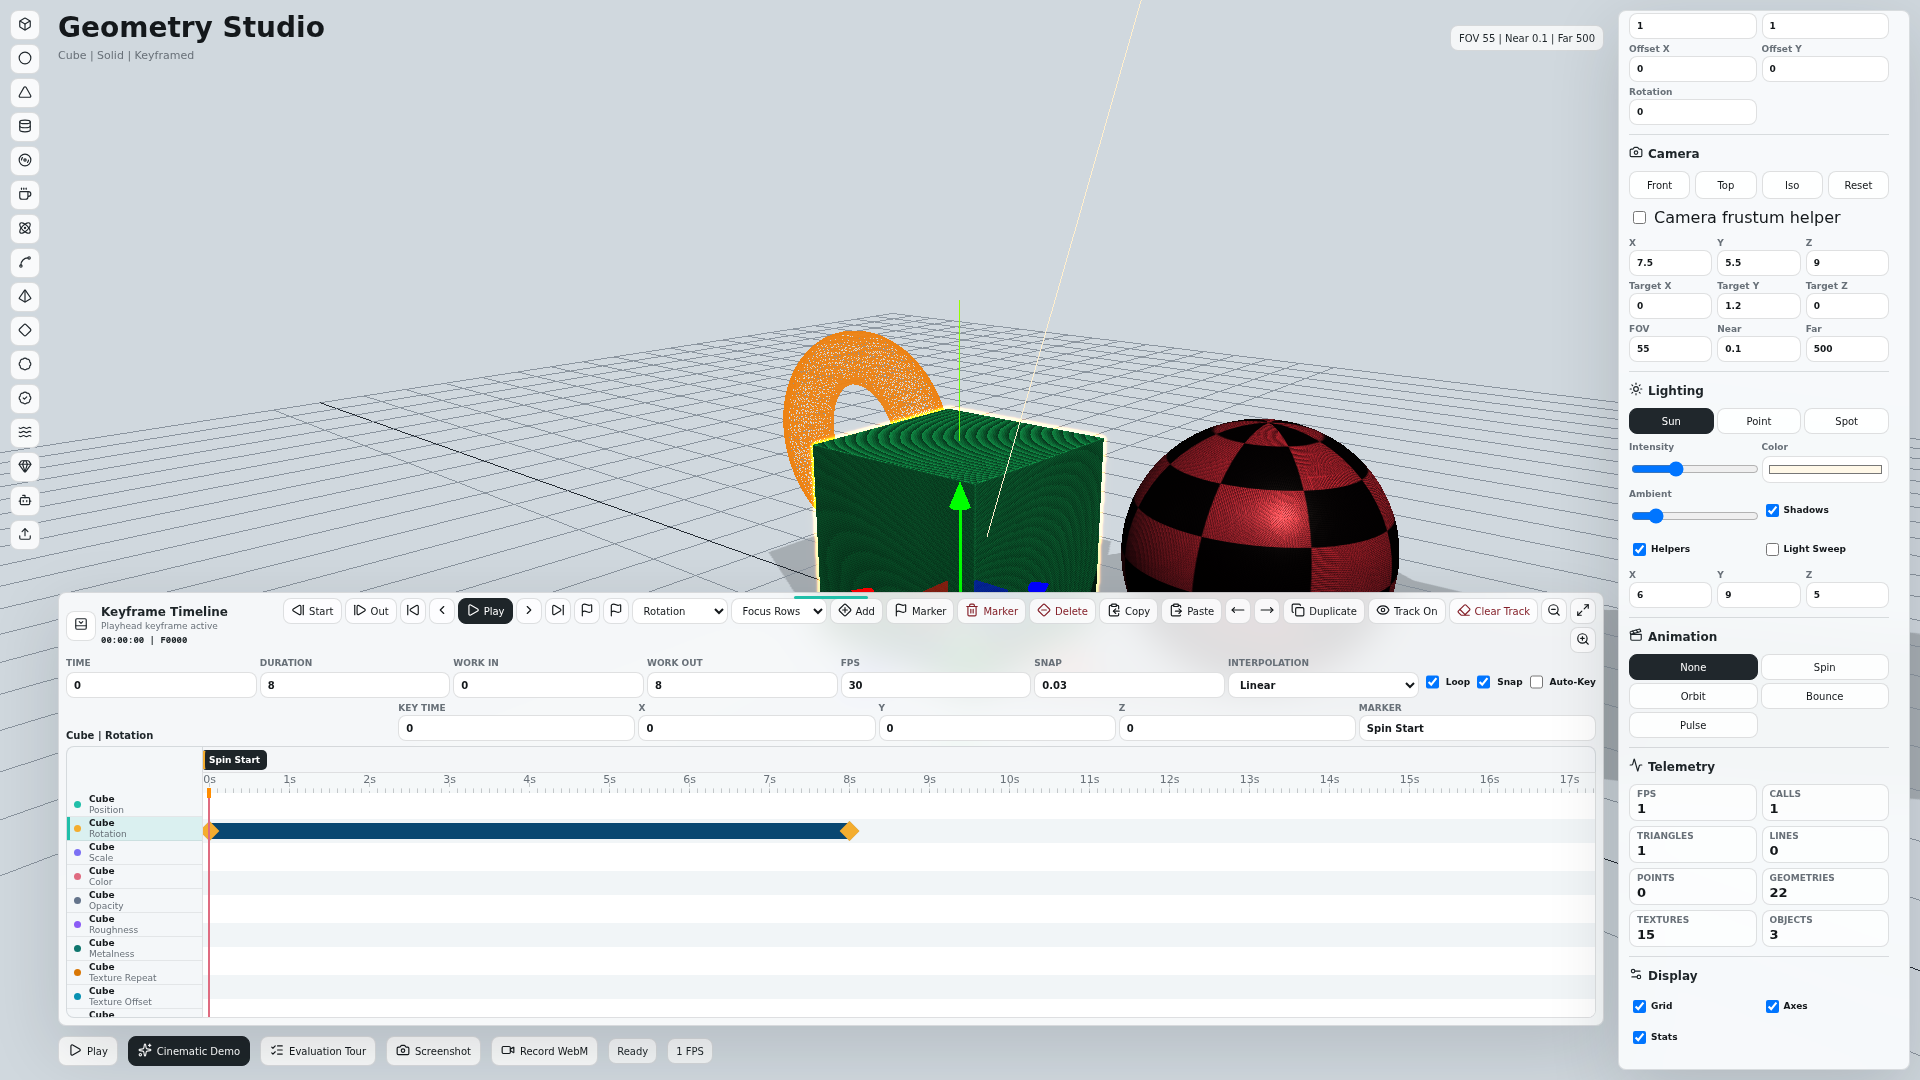
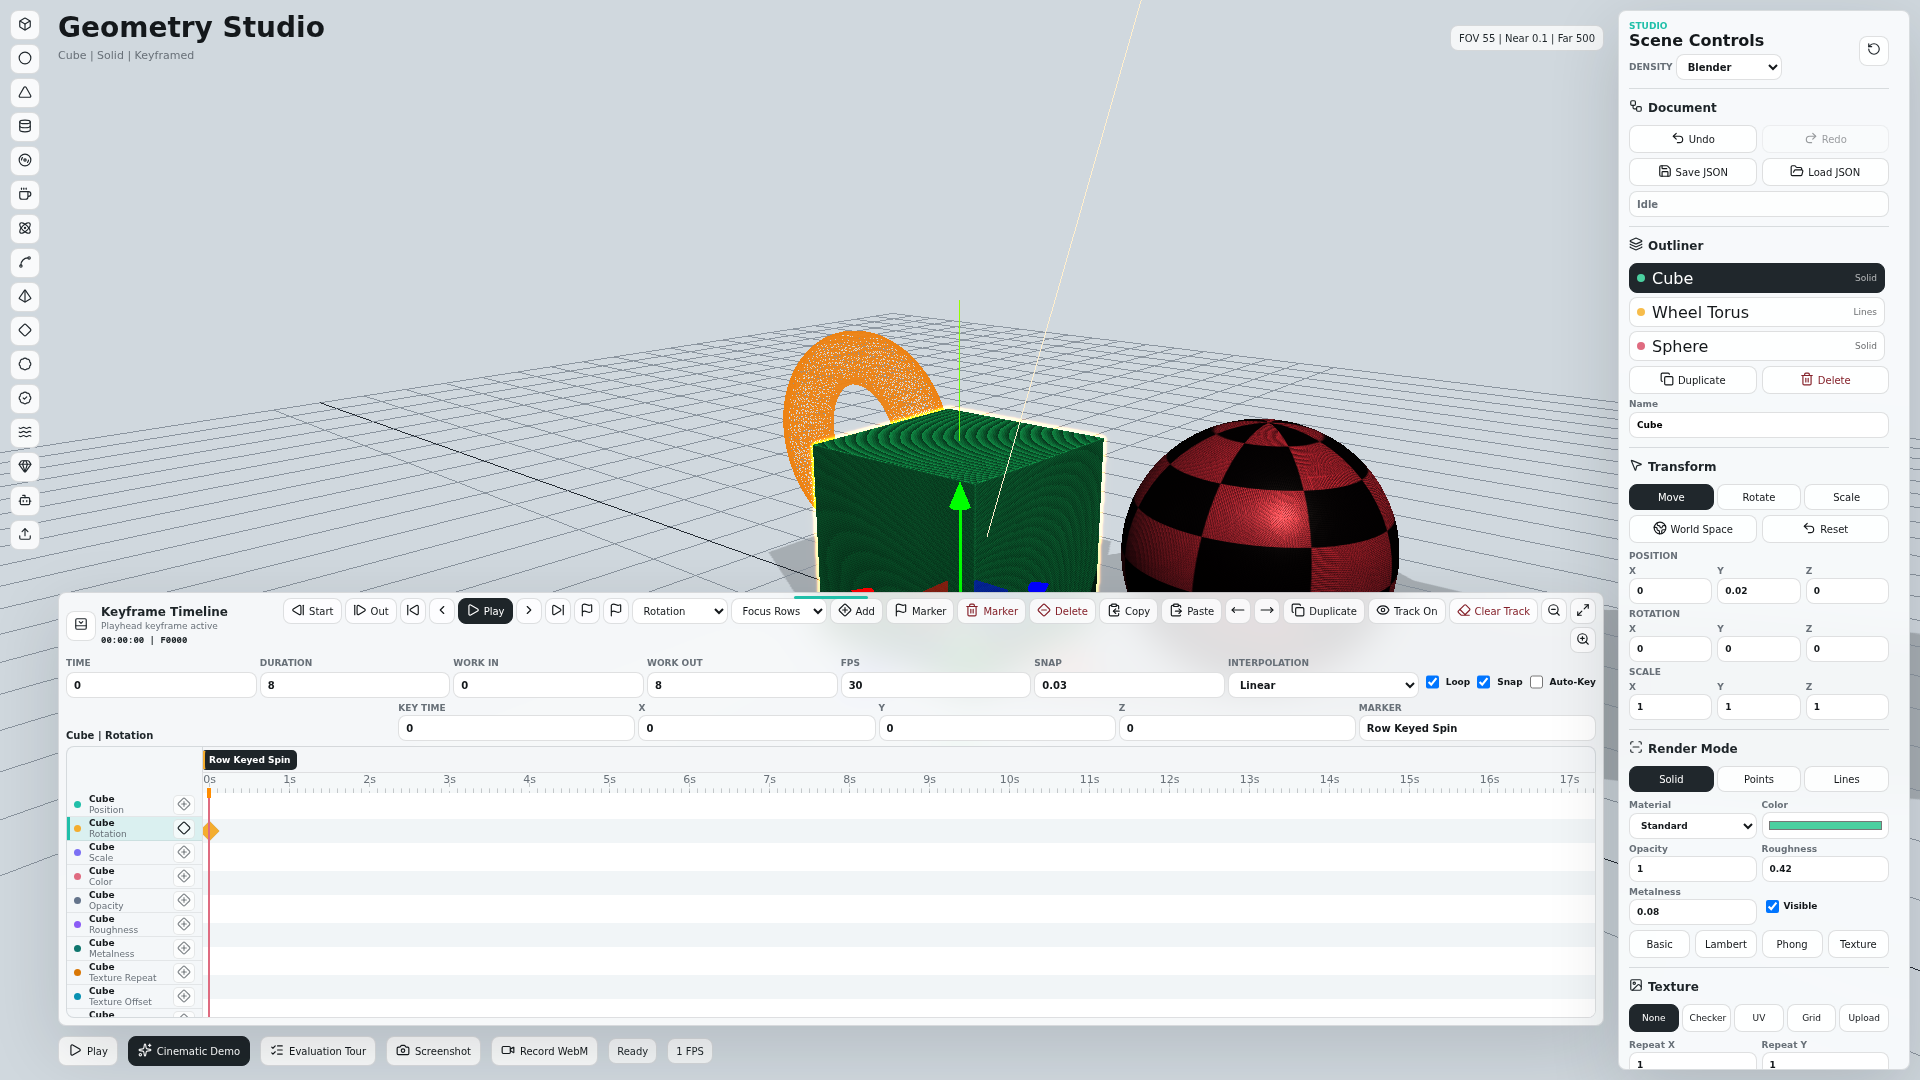
Add timeline row key buttons

diff --git a/Source/src/ui/timelinePanel.ts b/Source/src/ui/timelinePanel.ts
@@ -272,6 +272,7 @@ export class KeyframeTimelinePanel {
     const rowHeight = this.timelineRowHeight();
     const headerHeight = this.timelineHeaderHeight();
     this.labels.innerHTML = this.renderLabels(timelineDocument, visibleEntries, selectedId);
+    hydrateIcons(this.labels);
     this.timeline.setOptions({
       max: timelineDocument.duration,
       snapEnabled: timelineDocument.snapEnabled,
@@ -374,11 +375,24 @@ export class KeyframeTimelinePanel {
       this.callbacks.onToggleTrack(this.selectedTrackKind());
     });
     this.labels.addEventListener("click", (event) => {
-      const button = (event.target as HTMLElement).closest<HTMLButtonElement>(".timeline-track-label");
-      if (!button) return;
-      const kind = button.dataset.trackKind as TimelineTrackKind | undefined;
-      const targetId = button.dataset.objectId;
+      const keyButton = (event.target as HTMLElement).closest<HTMLButtonElement>(".timeline-row-key");
+      const row = (event.target as HTMLElement).closest<HTMLElement>(".timeline-track-label");
+      if (!row) return;
+      const kind = row.dataset.trackKind as TimelineTrackKind | undefined;
+      const targetId = row.dataset.objectId;
       if (!kind || !targetId) return;
+      this.trackSelect.value = kind;
+      this.callbacks.onTrackLabelSelected(targetId, kind);
+      if (keyButton) this.callbacks.onAddKeyframe(kind);
+    });
+    this.labels.addEventListener("keydown", (event) => {
+      if (event.key !== "Enter" && event.key !== " ") return;
+      const row = (event.target as HTMLElement).closest<HTMLElement>(".timeline-track-label");
+      if (!row || event.target instanceof HTMLButtonElement) return;
+      const kind = row.dataset.trackKind as TimelineTrackKind | undefined;
+      const targetId = row.dataset.objectId;
+      if (!kind || !targetId) return;
+      event.preventDefault();
       this.trackSelect.value = kind;
       this.callbacks.onTrackLabelSelected(targetId, kind);
     });
@@ -604,43 +618,67 @@ export class KeyframeTimelinePanel {
         const visibleKinds = this.visibleTrackKinds(OBJECT_TRACKS, objectTimeline?.tracks ?? [], entry.id, selectedId);
         return visibleKinds.map((kind) => {
           const track = objectTimeline?.tracks.find((candidate) => candidate.kind === kind);
-        return `
-        <button class="${this.labelClass(entry.id === selectedId && activeKind === kind, track?.enabled ?? true, Boolean(track?.keyframes.length))}" type="button" data-object-id="${entry.id}" data-track-kind="${kind}">
-          <span class="track-swatch" style="background:${TRACK_COLORS[kind]}"></span>
-          <span>
-            <strong>${entry.name}</strong>
-            <small>${TRACK_LABELS[kind]}</small>
-          </span>
-        </button>
-      `;
+          return this.renderTrackLabel({
+            targetId: entry.id,
+            targetName: entry.name,
+            kind,
+            active: entry.id === selectedId && activeKind === kind,
+            enabled: track?.enabled ?? true,
+            hasKeyframes: Boolean(track?.keyframes.length)
+          });
         });
       })
       .join("");
     const cameraLabels = this.visibleTrackKinds(CAMERA_TRACKS, timelineDocument.camera.tracks, CAMERA_TARGET_ID, selectedId).map((kind) => {
       const track = timelineDocument.camera.tracks.find((candidate) => candidate.kind === kind);
-      return `
-      <button class="${this.labelClass(isCameraTrack(activeKind) && activeKind === kind, track?.enabled ?? true, Boolean(track?.keyframes.length), "camera-track-label")}" type="button" data-object-id="${CAMERA_TARGET_ID}" data-track-kind="${kind}">
-        <span class="track-swatch" style="background:${TRACK_COLORS[kind]}"></span>
-        <span>
-          <strong>Camera</strong>
-          <small>${TRACK_LABELS[kind]}</small>
-        </span>
-      </button>
-    `;
+      return this.renderTrackLabel({
+        targetId: CAMERA_TARGET_ID,
+        targetName: "Camera",
+        kind,
+        active: isCameraTrack(activeKind) && activeKind === kind,
+        enabled: track?.enabled ?? true,
+        hasKeyframes: Boolean(track?.keyframes.length),
+        extraClass: "camera-track-label"
+      });
     }).join("");
     const lightLabels = this.visibleTrackKinds(LIGHT_TRACKS, timelineDocument.lights.tracks, LIGHT_TARGET_ID, selectedId).map((kind) => {
       const track = timelineDocument.lights.tracks.find((candidate) => candidate.kind === kind);
-      return `
-      <button class="${this.labelClass(isLightTrack(activeKind) && activeKind === kind, track?.enabled ?? true, Boolean(track?.keyframes.length), "light-track-label")}" type="button" data-object-id="${LIGHT_TARGET_ID}" data-track-kind="${kind}">
-        <span class="track-swatch" style="background:${TRACK_COLORS[kind]}"></span>
-        <span>
-          <strong>Lights</strong>
-          <small>${TRACK_LABELS[kind]}</small>
-        </span>
-      </button>
-    `;
+      return this.renderTrackLabel({
+        targetId: LIGHT_TARGET_ID,
+        targetName: "Lights",
+        kind,
+        active: isLightTrack(activeKind) && activeKind === kind,
+        enabled: track?.enabled ?? true,
+        hasKeyframes: Boolean(track?.keyframes.length),
+        extraClass: "light-track-label"
+      });
     }).join("");
     return `${objectLabels || `<div class="timeline-empty">Select an object to keyframe</div>`}${cameraLabels}${lightLabels}`;
+  }
+
+  private renderTrackLabel(options: {
+    targetId: string;
+    targetName: string;
+    kind: TimelineTrackKind;
+    active: boolean;
+    enabled: boolean;
+    hasKeyframes: boolean;
+    extraClass?: string;
+  }): string {
+    const label = TRACK_LABELS[options.kind];
+    const keyText = options.hasKeyframes ? "Update keyframe" : "Add keyframe";
+    return `
+      <div class="${this.labelClass(options.active, options.enabled, options.hasKeyframes, options.extraClass ?? "")}" role="button" tabindex="0" data-object-id="${options.targetId}" data-track-kind="${options.kind}" aria-label="${options.targetName} ${label}">
+        <span class="track-swatch" style="background:${TRACK_COLORS[options.kind]}"></span>
+        <span class="track-label-text">
+          <strong>${options.targetName}</strong>
+          <small>${label}</small>
+        </span>
+        <button class="timeline-row-key" type="button" aria-label="${keyText}: ${options.targetName} ${label}" title="${keyText}">
+          <span data-icon="${options.hasKeyframes ? "Diamond" : "DiamondPlus"}"></span>
+        </button>
+      </div>
+    `;
   }
 
   private labelClass(active: boolean, enabled: boolean, hasKeyframes: boolean, extra = ""): string {

diff --git a/Source/src/styles.css b/Source/src/styles.css
@@ -608,12 +608,15 @@ svg {
   width: 100%;
   height: var(--timeline-track-row-height);
   display: grid;
-  grid-template-columns: 10px minmax(0, 1fr);
+  grid-template-columns: 10px minmax(0, 1fr) var(--icon-mini-size);
   align-items: center;
   gap: var(--grid-gap);
   border: 0;
   border-bottom: 1px solid rgba(26, 35, 42, 0.08);
   background: transparent;
+  color: inherit;
+  cursor: pointer;
+  font: inherit;
   padding: 0 var(--timeline-header-padding-x);
   text-align: left;
 }
@@ -636,27 +639,51 @@ svg {
   border: 1px solid currentColor;
 }
 
-.timeline-track-label span:last-child {
+.track-label-text {
   display: grid;
   gap: 1px;
   min-width: 0;
 }
 
-.timeline-track-label strong,
-.timeline-track-label small {
+.track-label-text strong,
+.track-label-text small {
   overflow: hidden;
   text-overflow: ellipsis;
   white-space: nowrap;
 }
 
-.timeline-track-label strong {
+.track-label-text strong {
   color: var(--ink);
   font-size: var(--ui-small-font);
 }
 
-.timeline-track-label small {
+.track-label-text small {
   color: var(--muted);
   font-size: var(--ui-tiny-font);
+}
+
+.timeline-row-key {
+  width: calc(var(--icon-mini-size) - 4px);
+  height: calc(var(--timeline-track-row-height) - 4px);
+  display: grid;
+  place-items: center;
+  justify-self: end;
+  border: 1px solid rgba(26, 35, 42, 0.1);
+  border-radius: calc(var(--control-radius) - 3px);
+  background: rgba(255, 255, 255, 0.68);
+  color: rgba(26, 35, 42, 0.54);
+  padding: 0;
+}
+
+.timeline-row-key:hover,
+.timeline-row-key:focus-visible {
+  border-color: var(--teal);
+  color: var(--teal);
+  outline: 0;
+}
+
+.timeline-track-label.has-keyframes .timeline-row-key {
+  color: var(--charcoal);
 }
 
 .track-swatch {

diff --git a/Source/tests/studio.spec.ts b/Source/tests/studio.spec.ts
@@ -1,7 +1,7 @@
 import { expect, test } from "@playwright/test";
 
 test("renders the studio and core controls", async ({ page }) => {
-  test.setTimeout(120_000);
+  test.setTimeout(180_000);
   const errors: string[] = [];
   page.on("console", (message) => {
     if (message.type() === "error") errors.push(message.text());
@@ -40,6 +40,8 @@ test("renders the studio and core controls", async ({ page }) => {
   await rotationTrackLabel.click();
   await expect(page.locator("#timeline-track-kind")).toHaveValue("rotation");
   await expect(rotationTrackLabel).toHaveClass(/active/);
+  await rotationTrackLabel.locator(".timeline-row-key").click();
+  await expect(page.locator("#timeline-key-label")).toContainText("Cube | Rotation");
   await page.locator('[data-animation="spin"]').click({ force: true });
   await expect(page.locator("#selection-summary")).toContainText("Keyframed");
   await expect(page.locator("#timeline-track-kind")).toHaveValue("rotation");
@@ -50,14 +52,16 @@ test("renders the studio and core controls", async ({ page }) => {
   await cameraTrackLabel.click();
   await expect(page.locator("#timeline-track-kind")).toHaveValue("cameraPosition");
   await expect(cameraTrackLabel).toHaveClass(/active/);
+  await cameraTrackLabel.locator(".timeline-row-key").click();
+  await expect(page.locator("#timeline-key-label")).toContainText("Camera | Camera Position");
   const dockHeight = await page.locator("#keyframe-dock").evaluate((element) => element.getBoundingClientRect().height);
   const resizeBox = await page.locator("#timeline-resize-handle").boundingBox();
   expect(resizeBox).toBeTruthy();
   await page.mouse.move(resizeBox!.x + resizeBox!.width / 2, resizeBox!.y + 4);
   await page.mouse.down();
-  await page.mouse.move(resizeBox!.x + resizeBox!.width / 2, resizeBox!.y - 72);
+  await page.mouse.move(resizeBox!.x + resizeBox!.width / 2, resizeBox!.y - 120);
   await page.mouse.up();
-  await expect.poll(() => page.locator("#keyframe-dock").evaluate((element) => element.getBoundingClientRect().height)).toBeGreaterThan(dockHeight + 50);
+  await expect.poll(() => page.locator("#keyframe-dock").evaluate((element) => element.getBoundingClientRect().height)).toBeGreaterThan(dockHeight + 20);
   await page.locator("#timeline-next-frame").click();
   await expect(page.locator("#timeline-timecode")).toContainText("F0001");
   expect(Number(await page.locator("#timeline-current-time").inputValue())).toBeGreaterThan(0);

diff --git a/Release/index.html b/Release/index.html
@@ -8,8 +8,8 @@
       content="Geometry Studio - an interactive 3D computer graphics scene editor."
     />
     <title>Geometry Studio</title>
-    <script type="module" crossorigin src="./assets/index-CYMS94hh.js"></script>
-    <link rel="stylesheet" crossorigin href="./assets/index-BoHud98y.css">
+    <script type="module" crossorigin src="./assets/index-CSypYsCP.js"></script>
+    <link rel="stylesheet" crossorigin href="./assets/index-DovKPv5M.css">
   </head>
   <body>
     <div id="app"></div>

diff --git a/Release/assets/index-DovKPv5M.css b/Release/assets/index-DovKPv5M.css
@@ -1,0 +1,1 @@
+:root{--lightningcss-light:initial;--lightningcss-dark: ;color-scheme:light;color:#14181b;font-synthesis:none;text-rendering:optimizelegibility;-webkit-font-smoothing:antialiased;--ink:#14181b;--muted:#687078;--panel:#fafcfdeb;--panel-strong:#fff;--line:#1a232a24;--teal:#20bfa9;--amber:#f4ad2f;--rose:#df6b80;--violet:#7c70f4;--charcoal:#1e2529;background:#e8ecef;font-family:Inter,ui-sans-serif,system-ui,-apple-system,BlinkMacSystemFont,Segoe UI,sans-serif}*{box-sizing:border-box;scrollbar-width:thin;scrollbar-color:#1f282e57 transparent}::-webkit-scrollbar{width:7px;height:7px}::-webkit-scrollbar-track{background:0 0}::-webkit-scrollbar-thumb{background:#1f282e47;border-radius:999px}html,body,#app{width:100%;height:100%;margin:0;overflow:hidden}button,input,select{font:inherit}button,label{-webkit-tap-highlight-color:transparent}svg{width:var(--icon-glyph-size,18px);height:var(--icon-glyph-size,18px);stroke-width:2px;flex:none}.studio-shell{--viewport-left:88px;--viewport-right:396px;--viewport-edge:22px;--viewport-bottom-edge:22px;--viewport-gap:16px;--title-size:38px;--title-meta-size:13px;--chip-height:34px;--chip-padding:12px;--timeline-action-height:38px;--timeline-action-padding:14px;--dock-bottom:72px;--dock-height:360px;--dock-collapsed-height:50px;--dock-gap:8px;--timeline-header-height:48px;--timeline-header-column:40px;--timeline-header-padding-x:10px;--timeline-header-padding-top:8px;--timeline-settings-columns:repeat(5, minmax(82px, 1fr)) repeat(3, auto);--timeline-track-label-width:178px;--timeline-track-row-height:32px;--timeline-track-top-padding:28px;--timeline-select-width:112px;--control-height:34px;--control-radius:8px;--control-padding-x:9px;--button-height:36px;--button-padding-x:9px;--mini-button-height:34px;--mini-button-padding-x:10px;--icon-command-size:40px;--icon-mini-size:34px;--icon-glyph-size:18px;--tool-left:18px;--tool-top:16px;--tool-bottom:16px;--tool-rail-width:50px;--tool-size:40px;--tool-gap:6px;--inspector-width:360px;--inspector-edge:16px;--inspector-padding-y:18px;--inspector-padding-x:16px;--panel-gap:12px;--panel-section-y:14px;--panel-title-size:20px;--section-title-size:14px;--ui-font:12px;--ui-small-font:11px;--ui-tiny-font:10px;--grid-gap:8px;--outliner-height:160px;--outliner-row-height:42px;--toast-left:88px;--toast-bottom:78px;background:#e8ecef;width:100%;height:100%;position:relative}.studio-shell[data-density=compact]{--viewport-left:72px;--viewport-right:348px;--viewport-edge:18px;--viewport-bottom-edge:18px;--viewport-gap:12px;--title-size:32px;--title-meta-size:12px;--chip-height:30px;--chip-padding:10px;--timeline-action-height:34px;--timeline-action-padding:11px;--dock-bottom:62px;--dock-height:330px;--dock-collapsed-height:44px;--dock-gap:7px;--timeline-header-height:42px;--timeline-header-column:34px;--timeline-header-padding-x:8px;--timeline-header-padding-top:6px;--timeline-settings-columns:repeat(6, minmax(74px, 1fr)) repeat(3, auto);--timeline-track-label-width:154px;--timeline-track-row-height:28px;--timeline-track-top-padding:24px;--timeline-select-width:104px;--control-height:30px;--control-padding-x:8px;--button-height:32px;--button-padding-x:8px;--mini-button-height:30px;--mini-button-padding-x:8px;--icon-command-size:34px;--icon-mini-size:30px;--icon-glyph-size:16px;--tool-left:14px;--tool-top:12px;--tool-bottom:12px;--tool-rail-width:42px;--tool-size:34px;--tool-gap:5px;--inspector-width:320px;--inspector-edge:14px;--inspector-padding-y:13px;--inspector-padding-x:12px;--panel-gap:10px;--panel-section-y:11px;--panel-title-size:18px;--section-title-size:13px;--ui-font:11px;--ui-small-font:10px;--ui-tiny-font:9px;--grid-gap:6px;--outliner-height:138px;--outliner-row-height:36px;--toast-left:72px;--toast-bottom:68px}.studio-shell[data-density=blender]{--viewport-left:58px;--viewport-right:316px;--viewport-edge:14px;--viewport-bottom-edge:14px;--viewport-gap:10px;--title-size:28px;--title-meta-size:11px;--chip-height:26px;--chip-padding:8px;--timeline-action-height:30px;--timeline-action-padding:9px;--dock-bottom:54px;--dock-height:300px;--dock-collapsed-height:38px;--dock-gap:5px;--timeline-header-height:36px;--timeline-header-column:30px;--timeline-header-padding-x:7px;--timeline-header-padding-top:5px;--timeline-settings-columns:repeat(7, minmax(66px, 1fr)) repeat(3, auto);--timeline-track-label-width:136px;--timeline-track-row-height:24px;--timeline-track-top-padding:20px;--timeline-select-width:96px;--control-height:26px;--control-padding-x:7px;--button-height:28px;--button-padding-x:7px;--mini-button-height:26px;--mini-button-padding-x:7px;--icon-command-size:30px;--icon-mini-size:26px;--icon-glyph-size:14px;--tool-left:10px;--tool-top:10px;--tool-bottom:10px;--tool-rail-width:36px;--tool-size:30px;--tool-gap:4px;--inspector-width:292px;--inspector-edge:10px;--inspector-padding-y:10px;--inspector-padding-x:10px;--panel-gap:8px;--panel-section-y:9px;--panel-title-size:16px;--section-title-size:12px;--ui-font:10px;--ui-small-font:9px;--ui-tiny-font:9px;--grid-gap:5px;--outliner-height:118px;--outliner-row-height:30px;--toast-left:58px;--toast-bottom:60px}.viewport{position:absolute;inset:0;overflow:hidden}#scene-canvas{width:100%;height:100%;display:block}.viewport-top,.viewport-bottom{left:var(--viewport-left);right:var(--viewport-right);z-index:4;justify-content:space-between;align-items:center;gap:var(--viewport-gap);pointer-events:none;display:flex;position:absolute}.viewport-top{top:var(--viewport-edge)}.viewport-bottom{bottom:var(--viewport-bottom-edge);justify-content:flex-start}.viewport-top h1{font-size:clamp(22px, 2.4vw, var(--title-size));letter-spacing:0;margin:0;line-height:1}.viewport-top p{color:var(--muted);font-size:var(--title-meta-size);margin:7px 0 0}.view-chip,.fps,.status-line{min-height:var(--chip-height);border:1px solid var(--line);color:var(--charcoal);border-radius:var(--control-radius);padding:0 var(--chip-padding);font-size:var(--ui-font);-webkit-backdrop-filter:blur(18px);backdrop-filter:blur(18px);background:#ffffffc2;align-items:center;display:inline-flex}.timeline-btn,.wide-button,.mini-button,.icon-command,.tool-button,.segment,.outliner-item,.texture-swatch,.section-button{border:1px solid var(--line);color:var(--ink);border-radius:var(--control-radius);cursor:pointer;background:#fffc;transition:background .16s,border-color .16s,color .16s,transform .16s}.timeline-btn:hover,.wide-button:hover,.mini-button:hover,.icon-command:hover,.tool-button:hover,.segment:hover,.outliner-item:hover,.texture-swatch:hover{border-color:#20bfa980;transform:translateY(-1px)}.timeline-btn{pointer-events:auto;min-height:var(--timeline-action-height);align-items:center;gap:var(--grid-gap);padding:0 var(--timeline-action-padding);-webkit-backdrop-filter:blur(16px);backdrop-filter:blur(16px);font-size:var(--ui-font);background:#ffffffe0;display:inline-flex}.timeline-btn.strong{background:var(--charcoal);color:#fff;border-color:var(--charcoal)}.keyframe-dock{left:var(--viewport-left);right:var(--viewport-right);bottom:var(--dock-bottom);z-index:5;height:var(--timeline-dock-height,var(--dock-height));min-height:190px;max-height:min(72vh, calc(100vh - var(--dock-bottom) - 22px));gap:var(--dock-gap);border:1px solid var(--line);border-radius:var(--control-radius);-webkit-backdrop-filter:blur(18px);backdrop-filter:blur(18px);background:#fafcfde0;grid-template-rows:auto auto auto 1fr;display:grid;position:absolute;overflow:hidden;box-shadow:0 22px 70px #10181f24}.timeline-resize-handle{z-index:3;cursor:ns-resize;background:0 0;border:0;height:10px;padding:0;position:absolute;top:0;left:0;right:0}.timeline-resize-handle:before{content:"";background:#1a232a38;border-radius:99px;width:74px;height:3px;position:absolute;top:3px;left:50%;transform:translate(-50%)}.timeline-resize-handle:hover:before,.keyframe-dock.resizing .timeline-resize-handle:before{background:var(--teal)}.keyframe-dock.collapsed{height:var(--dock-collapsed-height)}.keyframe-dock.collapsed .timeline-resize-handle,.keyframe-dock.collapsed .timeline-settings,.keyframe-dock.collapsed .timeline-keyframe-editor,.keyframe-dock.collapsed .timeline-body{display:none}.timeline-header{min-height:var(--timeline-header-height);grid-template-columns:var(--timeline-header-column) minmax(150px, 1fr) minmax(0, auto);align-items:center;gap:var(--grid-gap);padding:var(--timeline-header-padding-top) var(--timeline-header-padding-x) 0;display:grid}.timeline-title{gap:2px;min-width:0;display:grid}.timeline-title strong{color:var(--charcoal);font-size:calc(var(--ui-font) + 2px);text-overflow:ellipsis;white-space:nowrap;overflow:hidden}.timeline-title span{color:var(--muted);font-size:var(--ui-small-font);text-overflow:ellipsis;white-space:nowrap;overflow:hidden}.timeline-title .timeline-timecode{color:var(--charcoal);font-family:ui-monospace,SFMono-Regular,Menlo,Consolas,monospace;font-size:var(--ui-small-font);font-weight:800}.timeline-toolbar{justify-content:end;align-items:center;gap:calc(var(--grid-gap) - 2px);flex-wrap:wrap;min-width:0;display:flex}.timeline-settings{justify-content:end;align-items:center;gap:calc(var(--grid-gap) - 2px);min-width:0;display:grid}.timeline-toolbar select,.timeline-settings input,.timeline-settings select{min-height:var(--control-height);border:1px solid var(--line);border-radius:var(--control-radius);background:var(--panel-strong);color:var(--ink);padding:0 var(--control-padding-x);font-size:var(--ui-font)}.timeline-toolbar select{width:var(--timeline-select-width)}.timeline-toolbar .mini-button{min-height:var(--mini-button-height);padding:0 var(--mini-button-padding-x)}.mini-button.icon-mini{width:var(--icon-mini-size);padding:0}.mini-button.strong-mini{background:var(--charcoal);color:#fff;border-color:var(--charcoal)}.mini-button.danger{color:#842029}.mini-button:disabled{cursor:not-allowed;opacity:.52}.timeline-settings{grid-template-columns:var(--timeline-settings-columns);padding:0 var(--timeline-header-padding-x);justify-content:stretch}.timeline-settings label{min-width:0;color:var(--muted);font-size:var(--ui-tiny-font);text-transform:uppercase;gap:4px;font-weight:800;display:grid}.timeline-settings .toggle-line{min-height:var(--control-height);text-transform:none;align-self:end}.timeline-keyframe-editor{align-items:end;gap:calc(var(--grid-gap) - 2px);padding:0 var(--timeline-header-padding-x);grid-template-columns:minmax(126px,1fr) repeat(5,minmax(70px,.72fr));display:grid}.timeline-keyframe-editor strong{color:var(--charcoal);font-size:var(--ui-font);text-overflow:ellipsis;white-space:nowrap;overflow:hidden}.timeline-keyframe-editor label{gap:calc(var(--grid-gap) - 3px);min-width:0;color:var(--muted);font-size:var(--ui-tiny-font);text-transform:uppercase;font-weight:800;display:grid}.timeline-keyframe-editor input{width:100%;min-height:var(--control-height);border:1px solid var(--line);border-radius:var(--control-radius);background:var(--panel-strong);color:var(--ink);padding:0 var(--control-padding-x);font-size:var(--ui-font)}.timeline-keyframe-editor input:disabled{color:#14181b70;background:#ffffff7a}.timeline-body{grid-template-columns:var(--timeline-track-label-width) minmax(0, 1fr);min-height:0;padding:0 var(--timeline-header-padding-x) var(--timeline-header-padding-x);display:grid}.timeline-track-labels{min-height:0;padding-top:calc(var(--timeline-track-top-padding) + var(--control-height));border:1px solid var(--line);border-radius:var(--control-radius) 0 0 var(--control-radius);background:#f4f7f9e0;border-right:0;overflow:hidden auto}.timeline-track-label{width:100%;height:var(--timeline-track-row-height);grid-template-columns:10px minmax(0, 1fr) var(--icon-mini-size);align-items:center;gap:var(--grid-gap);color:inherit;cursor:pointer;font:inherit;padding:0 var(--timeline-header-padding-x);text-align:left;background:0 0;border:0;border-bottom:1px solid #1a232a14;display:grid}.timeline-track-label:hover,.timeline-track-label.active{background:#20bfa91f}.timeline-track-label.active{box-shadow:inset 3px 0 0 var(--teal)}.timeline-track-label.disabled-track{opacity:.58}.timeline-track-label.disabled-track .track-swatch{border:1px solid;background:0 0!important}.track-label-text{gap:1px;min-width:0;display:grid}.track-label-text strong,.track-label-text small{text-overflow:ellipsis;white-space:nowrap;overflow:hidden}.track-label-text strong{color:var(--ink);font-size:var(--ui-small-font)}.track-label-text small{color:var(--muted);font-size:var(--ui-tiny-font)}.timeline-row-key{width:calc(var(--icon-mini-size) - 4px);height:calc(var(--timeline-track-row-height) - 4px);border-radius:calc(var(--control-radius) - 3px);color:#1a232a8a;background:#ffffffad;border:1px solid #1a232a1a;justify-self:end;place-items:center;padding:0;display:grid}.timeline-row-key:hover,.timeline-row-key:focus-visible{border-color:var(--teal);color:var(--teal);outline:0}.timeline-track-label.has-keyframes .timeline-row-key{color:var(--charcoal)}.track-swatch{width:calc(var(--ui-font) - 3px);height:calc(var(--ui-font) - 3px);border-radius:99px}.timeline-empty{color:var(--muted);font-size:var(--ui-font);padding:12px}.timeline-workspace{grid-template-rows:var(--control-height) minmax(0, 1fr);min-width:0;min-height:0;display:grid}.timeline-marker-strip{border:1px solid var(--line);border-radius:0 var(--control-radius) 0 0;background:#f4f7f9f0;border-bottom:0;min-width:0;position:relative;overflow:hidden}.timeline-marker{min-width:18px;max-width:136px;height:calc(var(--control-height) - 6px);color:var(--ink);font-size:var(--ui-tiny-font);text-overflow:ellipsis;white-space:nowrap;background:#ffffffe6;border:1px solid #1a232a2e;border-left-width:4px;border-radius:5px;align-items:center;gap:4px;padding:0 6px 0 4px;font-weight:800;display:inline-flex;position:absolute;top:3px;overflow:hidden;transform:translate(-2px)}.timeline-marker.active{background:var(--charcoal);color:#fff}.timeline-canvas{border:1px solid var(--line);border-radius:0 0 var(--control-radius) 0;background:#ffffffc7;min-width:0;min-height:0;overflow:hidden}.timeline-canvas>div,.timeline-canvas canvas{width:100%!important}.tool-rail{top:var(--tool-top);left:var(--tool-left);bottom:var(--tool-bottom);z-index:5;width:var(--tool-rail-width);grid-auto-rows:var(--tool-size);align-content:start;gap:var(--tool-gap);overscroll-behavior:contain;scrollbar-gutter:stable;padding-right:4px;display:grid;position:absolute;overflow:hidden auto}.tool-button,.icon-command{width:var(--icon-command-size);height:var(--icon-command-size);color:#20272c;-webkit-backdrop-filter:blur(18px);backdrop-filter:blur(18px);background:#ffffffdb;place-items:center;display:grid}.tool-button:active,.timeline-btn:active,.segment:active,.wide-button:active{transform:translateY(0)}.import-button input,.upload-texture input,.file-action input{display:none}.drop-overlay{inset:var(--tool-top) var(--viewport-right) var(--tool-bottom) var(--viewport-left);z-index:20;place-items:center;gap:var(--panel-gap);border-radius:var(--control-radius);color:var(--charcoal);font-size:calc(var(--ui-font) + 6px);pointer-events:none;-webkit-backdrop-filter:blur(18px);backdrop-filter:blur(18px);background:#fafcfdd1;border:2px dashed #20bfa9b8;display:none;position:absolute}.drop-overlay.active{display:grid}.inspector{top:var(--inspector-edge);right:var(--inspector-edge);bottom:var(--inspector-edge);z-index:6;width:var(--inspector-width);padding:var(--inspector-padding-y) var(--inspector-padding-x);border:1px solid var(--line);background:var(--panel);border-radius:var(--control-radius);-webkit-backdrop-filter:blur(18px);backdrop-filter:blur(18px);overscroll-behavior:contain;scrollbar-gutter:stable;position:absolute;overflow:auto;box-shadow:0 22px 70px #10181f29}.panel-header{justify-content:space-between;align-items:center;gap:var(--panel-gap);margin-bottom:var(--panel-gap);display:flex}.panel-header h2,.section-title h3{letter-spacing:0;margin:0}.panel-header h2{font-size:var(--panel-title-size)}.density-control{align-items:center;gap:calc(var(--grid-gap) - 2px);margin-top:calc(var(--grid-gap) - 1px);color:var(--muted);font-size:var(--ui-small-font);text-transform:uppercase;font-weight:800;display:inline-flex}.density-control select{min-height:var(--control-height);border:1px solid var(--line);border-radius:var(--control-radius);background:var(--panel-strong);color:var(--ink);padding:0 var(--control-padding-x);font-size:var(--ui-font);text-transform:none}.eyebrow{color:var(--teal);font-size:var(--ui-small-font);letter-spacing:0;text-transform:uppercase;font-weight:800}.panel-section{border-top:1px solid var(--line);padding:var(--panel-section-y) 0}.section-title{align-items:center;gap:var(--grid-gap);width:100%;margin-bottom:var(--panel-gap);color:var(--charcoal);display:flex}.section-title h3{font-size:var(--section-title-size)}.section-button{text-align:left;background:0 0;border:0;padding:0}.outliner{gap:calc(var(--grid-gap) - 1px);max-height:var(--outliner-height);overscroll-behavior:contain;padding-right:4px;display:grid;overflow:auto}.outliner-item{min-height:var(--outliner-row-height);grid-template-columns:var(--ui-font) 1fr auto;align-items:center;gap:var(--grid-gap);padding:0 var(--control-padding-x);text-align:left;display:grid}.outliner-item.active{color:#fff;background:#20272c;border-color:#20272c}.object-dot{width:calc(var(--ui-font) - 2px);height:calc(var(--ui-font) - 2px);border-radius:99px}.object-name{text-overflow:ellipsis;white-space:nowrap;overflow:hidden}.object-mode{color:inherit;opacity:.65;font-size:var(--ui-small-font)}.segmented{gap:calc(var(--grid-gap) - 2px);grid-template-columns:repeat(3,minmax(0,1fr));display:grid}.segmented.wrap{grid-template-columns:repeat(2,minmax(0,1fr))}.segment{min-height:var(--control-height);padding:0 var(--control-padding-x);font-size:var(--ui-font)}.segment.active,.texture-swatch.active{color:#fff;background:#20272c;border-color:#20272c}.compact-row,.camera-presets,.doc-actions,.material-presets{gap:var(--grid-gap);margin-top:var(--grid-gap);grid-template-columns:1fr 1fr;display:grid}.camera-presets,.material-presets{grid-template-columns:repeat(4,minmax(0,1fr))}.wide-button,.mini-button{min-height:var(--button-height);justify-content:center;align-items:center;gap:calc(var(--grid-gap) - 1px);padding:0 var(--button-padding-x);font-size:var(--ui-font);display:inline-flex}.wide-button.danger{color:#842029;width:100%}.wide-button:disabled{cursor:not-allowed;opacity:.42;transform:none}.file-action{cursor:pointer}.load-progress{min-height:var(--control-height);margin-top:var(--grid-gap);border:1px solid var(--line);border-radius:var(--control-radius);background:#ffffffbd;align-items:center;display:flex;position:relative;overflow:hidden}.load-progress span{background:#20bfa92e;width:0%;transition:width .18s;position:absolute;inset:0 auto 0 0}.load-progress strong{padding:0 var(--control-padding-x);color:var(--muted);font-size:var(--ui-font);text-overflow:ellipsis;white-space:nowrap;position:relative;overflow:hidden}.rename-line{gap:calc(var(--grid-gap) - 2px);margin-top:var(--grid-gap);color:var(--muted);font-size:var(--ui-small-font);font-weight:800;display:grid}.rename-line input{min-height:var(--control-height);border:1px solid var(--line);border-radius:var(--control-radius);padding:0 var(--control-padding-x)}.matrix-grid,.form-grid{gap:var(--grid-gap);margin-top:var(--panel-gap);grid-template-columns:repeat(3,minmax(0,1fr));display:grid}.form-grid{grid-template-columns:1fr 1fr}.grid-label{color:var(--muted);font-size:var(--ui-small-font);letter-spacing:0;text-transform:uppercase;grid-column:1/-1;font-weight:800}.axis-input,.form-grid label{gap:calc(var(--grid-gap) - 3px);min-width:0;color:var(--muted);font-size:var(--ui-small-font);font-weight:700;display:grid}.axis-input.wide-axis{grid-column:span 1}.axis-input input,.form-grid input,.form-grid select{width:100%;min-height:var(--control-height);border:1px solid var(--line);background:var(--panel-strong);color:var(--ink);border-radius:var(--control-radius);padding:0 var(--control-padding-x)}.form-grid input[type=color]{padding:4px}.form-grid input[type=range]{padding:0}.form-grid .toggle-line input[type=checkbox]{width:auto;min-height:0}.toggle-line{min-height:var(--control-height);align-items:center;gap:var(--grid-gap);color:var(--ink)!important;display:flex!important}.single-toggle{margin-top:var(--grid-gap)}.texture-grid{gap:calc(var(--grid-gap) - 2px);grid-template-columns:repeat(5,minmax(0,1fr));display:grid}.texture-swatch{min-height:var(--button-height);padding:0 var(--control-padding-x);font-size:var(--ui-small-font);text-align:center;place-items:center;display:grid}.telemetry-grid{gap:var(--grid-gap);grid-template-columns:repeat(2,minmax(0,1fr));display:grid}.telemetry-grid div{min-height:var(--outliner-row-height);border:1px solid var(--line);border-radius:var(--control-radius);padding:calc(var(--grid-gap) - 1px) var(--control-padding-x);background:#ffffffb8;align-content:center;gap:2px;display:grid}.telemetry-grid span{color:var(--muted);font-size:var(--ui-tiny-font);text-transform:uppercase;font-weight:800}.telemetry-grid strong{font-size:calc(var(--ui-font) + 3px)}.toast-stack{left:var(--toast-left);bottom:var(--toast-bottom);z-index:12;pointer-events:none;gap:7px;width:min(380px,100vw - 124px);display:grid;position:absolute}.toast{color:#fff;border-radius:var(--control-radius);padding:var(--grid-gap) var(--panel-gap);font-size:calc(var(--ui-font) + 2px);background:#20272ceb;border:1px solid #fff6;line-height:1.35;animation:.18s ease-out toast-in;box-shadow:0 18px 45px #0c101433}.toast.bad{background:#842029f0}.toast.good{border-left:4px solid var(--teal)}.toast.leaving{opacity:0;transform:translateY(8px)}.hidden{display:none}.fallback{text-align:center;place-items:center;min-height:100%;padding:32px;display:grid}.fallback h1{margin:0 0 10px}@keyframes toast-in{0%{opacity:0;transform:translateY(8px)}to{opacity:1;transform:translateY(0)}}@media (width<=880px){.drop-overlay{inset:10px 10px calc(46vh + 72px)}.tool-rail{scrollbar-gutter:auto;grid-auto-rows:42px;grid-auto-columns:42px;grid-auto-flow:column;width:auto;height:42px;padding:0;inset:auto 10px 10px;overflow:auto hidden}.tool-button{width:42px;height:42px}.inspector{width:auto;max-height:46vh;padding:14px;inset:auto 10px 62px}.viewport-top{top:12px;left:12px;right:12px}.viewport-top h1{font-size:24px}.view-chip{display:none}.viewport-bottom{flex-wrap:wrap;bottom:calc(46vh + 80px);left:12px;right:12px}.keyframe-dock{height:min(260px,32vh);bottom:calc(46vh + 132px);left:10px;right:10px}.timeline-header{grid-template-columns:40px minmax(120px,1fr)}.timeline-toolbar{grid-column:1/-1;justify-content:stretch}.timeline-toolbar .mini-button,.timeline-toolbar select{flex:92px}.timeline-toolbar .icon-mini{flex:0 0 34px}.timeline-settings{grid-template-columns:repeat(4,minmax(0,1fr))}.timeline-body{grid-template-columns:132px minmax(0,1fr)}.status-line{max-width:100%}.toast-stack{width:calc(100vw - 24px);bottom:calc(46vh + 126px);left:12px}}@media (width<=520px){.form-grid,.compact-row,.camera-presets,.doc-actions,.material-presets{grid-template-columns:1fr 1fr}.matrix-grid{grid-template-columns:repeat(3,minmax(78px,1fr));overflow-x:auto}.texture-grid{grid-template-columns:repeat(3,minmax(0,1fr))}}

diff --git a/Doc/Report.tex b/Doc/Report.tex
@@ -217,8 +217,10 @@ keyframes.
 The left row labels select object, camera, and light tracks directly, and active
 tracks can be disabled non-destructively to test motion or appearance changes
 without deleting keyframes. Focus, Keyed, and All row filters keep dense scenes
-manageable while preserving access to the active track. Named timeline markers
-add cue points for animation beats, camera moves, and demo sections.
+manageable while preserving access to the active track. Each timeline row also
+has a diamond key button, allowing users to key a property directly from its row
+in the style of motion-graphics editors. Named timeline markers add cue points
+for animation beats, camera moves, and demo sections.
 Frame-accurate navigation is available through previous/next frame buttons and
 keyboard shortcuts, while selected keyframes can be nudged one frame left or
 right for precise retiming. A compact keyframe editor allows precise numeric

diff --git a/docs/timeline-row-keying.md b/docs/timeline-row-keying.md
@@ -1,0 +1,38 @@
+# Timeline Row Keying
+
+## Purpose
+
+After Effects users expect each property row to be directly keyable. Geometry
+Studio now adds a small diamond button on every visible timeline row so users do
+not need to switch to a global track dropdown before adding a key.
+
+## Behavior
+
+- Clicking a row still selects that target and property track.
+- Clicking the diamond button on a row selects that row and immediately creates
+  or updates a keyframe at the current playhead time.
+- Object rows select the matching scene object before writing the key.
+- Camera and light rows write to their global timeline tracks.
+- Rows that already contain keyframes use a filled diamond icon to communicate
+  that pressing the button updates/adds another key on an existing track.
+
+## Architecture
+
+The feature is implemented in `ui/timelinePanel.ts` as an adapter-level event.
+The panel does not mutate timeline data directly. It selects the row target,
+then calls the existing `onAddKeyframe(kind)` callback so `main.ts` remains the
+single place that records history, captures the current scene value, rebuilds
+runtime playback, and refreshes UI state.
+
+This keeps the interaction AE-like without creating a second keyframe writing
+path.
+
+## Testing
+
+The Playwright smoke workflow verifies row-level keying for:
+
+- Object Rotation rows.
+- Camera Position rows.
+
+The release browser smoke also verifies no console errors during row-key
+creation.

diff --git a/docs/README.md b/docs/README.md
@@ -50,6 +50,8 @@ PDF.
   enable/disable behavior.
 - [Timeline Row Selection](timeline-row-selection.md) documents dope-sheet row
   label selection and active/disabled row states.
+- [Timeline Row Keying](timeline-row-keying.md) documents the AE-style diamond
+  key buttons on each property row.
 - [Timeline Row Filtering](timeline-row-filtering.md) documents Focus, Keyed,
   and All row visibility modes for dense scenes.
 - [Preview Export](preview-export.md) documents WebM work-area recording.
@@ -81,6 +83,8 @@ animation runtime where it fits:
   saved keyframes.
 - Row-label selection makes the left timeline column a direct track navigation
   surface for object, camera, and light tracks.
+- Row-level diamond buttons add or update keys directly from the property row,
+  matching common motion-graphics editor workflows.
 - Row filtering keeps dense scenes manageable through Focus, Keyed, and All
   timeline views.
 - Timeline markers add named cue points for animation beats and demo segments.